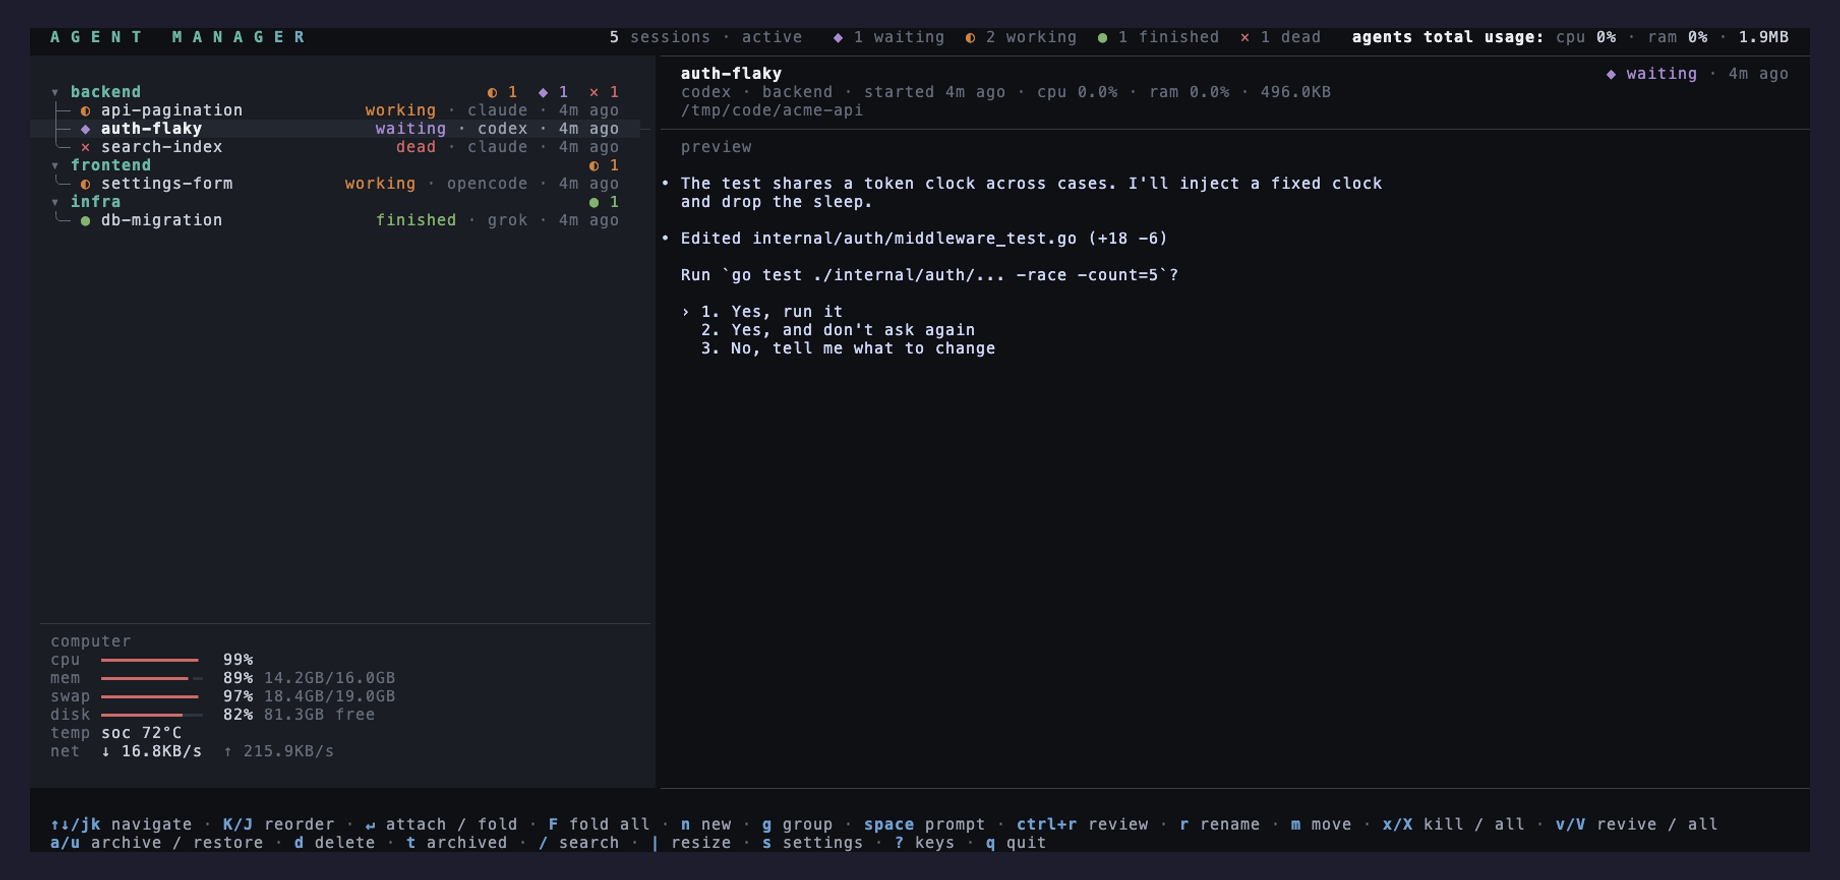
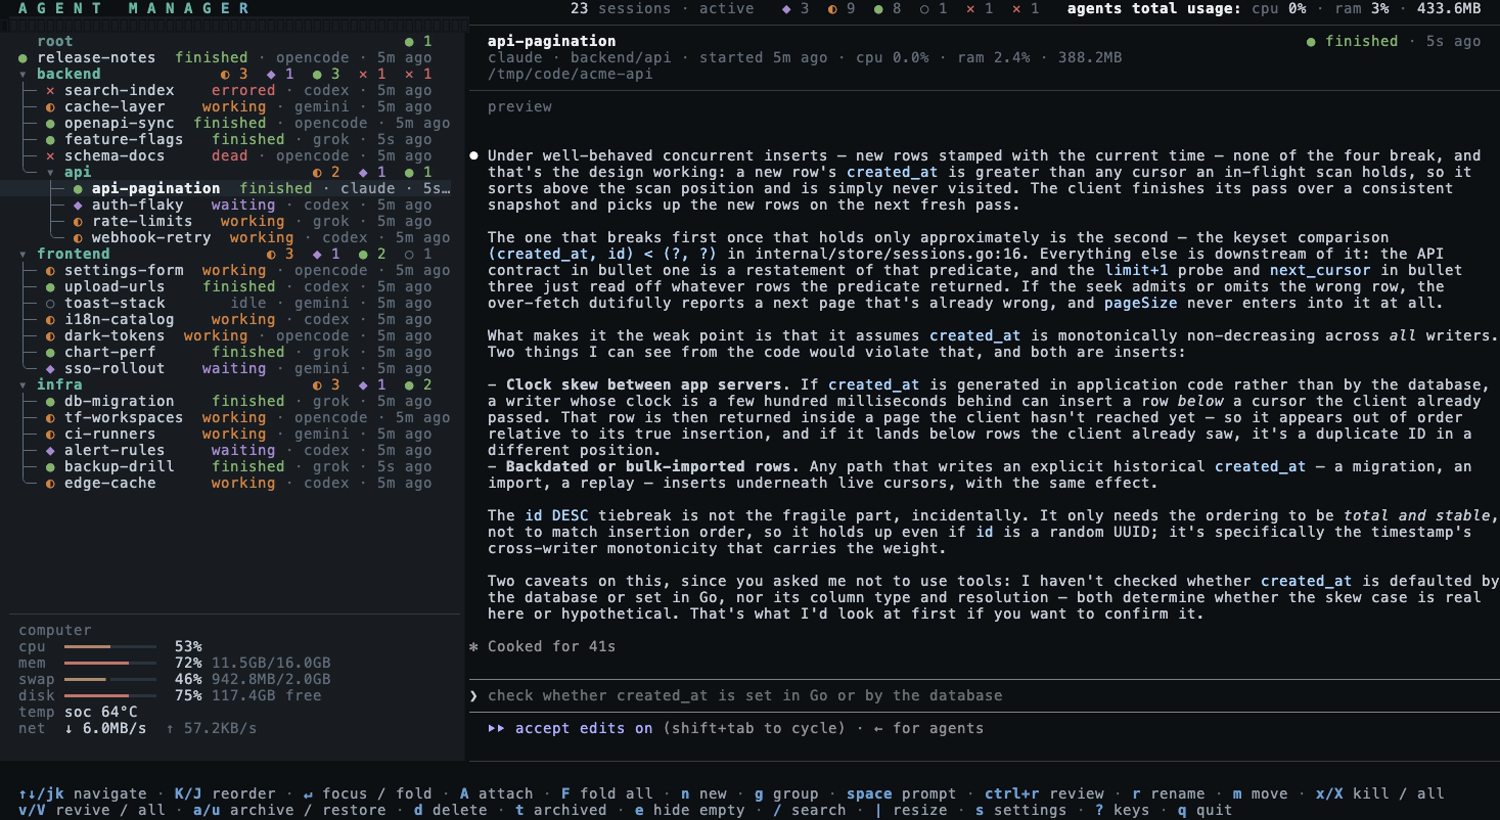
docs: re-record the demos full bleed, one per feature
The recordings carried a Catppuccin frame around them: vhs painted its
window from the tape theme while the app could only repaint its own cell
grid, so 28px of padding stayed the wrong colour on every side. The tape
now sets the app's palette and zero padding, and the canvas is 1500x820,
narrower and denser than before.

Five recordings instead of two, one per thing the README claims:

- demo: five prompts to five fresh agents from one group row, the cursor
  never moving, each agent renaming itself, then the blocked one answered
  in place and its diff opened
- demo-space: a follow-up sent into a running Claude Code pane
- demo-groups: fold, fold all, reorder, archive, the archived view
- demo-diff: scroll, unified, next file, a line comment sent to the agent
- demo-revive: kill for the RAM, revive on the same conversation

The scene is a 23-session fleet across a nested group tree. One session
is a real Claude Code, so the preview panel shows an actual agent
answering an actual question rather than a rendering of one; the other
four tools are stand-ins whose panes carry their own tool's real chrome,
so the shipped status rules are what resolve every row on screen.

Changed region(s): [[0.0, 0.0, 1.0, 1.0]]

diff --git a/README.md b/README.md
@@ -16,7 +16,7 @@
   <a href="LICENSE"><img src="https://img.shields.io/github/license/YoanWai/agent-manager?style=for-the-badge&label=license&labelColor=1f2328&color=59636e" alt="licence"></a>
 </p>
 
-![agent-manager demo](docs/demo.gif)
+![five prompts to five fresh agents without moving the cursor, then answering the blocked one and opening its diff](docs/demo.gif)
 
 Claude Code, Codex, OpenCode, Grok, and Gemini CLI run side by side, each in its own tmux session, so they keep working after you quit the manager.
 
@@ -145,9 +145,13 @@ Press `space` to dock a prompt bar at the bottom of the sidebar. The target foll
 
 `esc` closes the bar. The new-session form's optional `prompt` field launches an agent the same way; tools whose CLI takes the prompt behind a flag declare it with `prompt_flag` (see [Configuration](#configuration)).
 
+![answering a working agent from the prompt bar, without attaching](docs/demo-space.gif)
+
 ### Killing and reviving sessions
 
 `x` ends a session that is holding RAM you want back, and on a group row it ends every live session under it; `X` ends every live session in view. Each asks to confirm first, and what it ends is the tmux session, not the record: the row stays in the tree, marked `dead`, with its name, group, and conversation id intact.
+
+![killing a session for the RAM, then reviving it on the same conversation](docs/demo-revive.gif)
 
 `v` relaunches a dead session under its old id, keeping its name, group, and history. When the manager holds that session's own conversation id, revive resumes **that exact conversation** through the tool's `resume_by_id_command`: `claude --resume {id}`, `codex resume {id}`, `opencode --session {id}`, `grok --resume {id}`, `gemini --resume {id}`.
 
@@ -202,6 +206,8 @@ Comments stay on the review screen until you send them: `C` flattens every one o
 ![diff review demo](docs/demo-diff.gif)
 
 ### Groups
+
+![folding the tree, reordering a session among its siblings, and archiving one](docs/demo-groups.gif)
 
 Groups are paths (`backend/api/auth`) forming a tree of unlimited depth. Sessions can live at any node, including the root. Create subgroups inline with `g`, reorder both groups and sessions with `K` / `J` (or `shift+↑↓`; the order persists), fold a subtree with `enter` on its row, fold or unfold the whole tree with `F`, hide or restore empty groups visually with `e`, and edit a group's name and default path with `r`. On a session, `r` renames it and `tab` cycles the tool (status rules and revive follow the new tool; useful when you quit one agent in the pane and start another).
 
